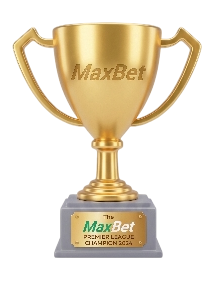
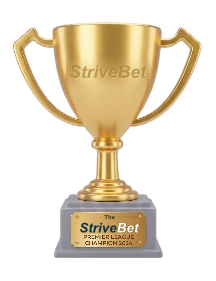
Rebrand the win trophy and leftover Sporty names to StriveBet
- winning-trophy.png: cup engraving and base plate now read StriveBet
  (original kept in _old-maxbet-assets/)
- "Sporty Loyalty" -> "Strive Loyalty" in the account menu and page title
- "Sporty Hero" mini game -> "Strive Hero" (display name only)

Changed region(s): [[0.3611, 0.7402, 0.6389, 0.8541], [0.3056, 0.2278, 0.7222, 0.2847]]

diff --git a/lib/constants.ts b/lib/constants.ts
@@ -23,7 +23,7 @@ export const PRIMARY_NAV: NavItem[] = [
 
 export const ACCOUNT_NAV: NavItem[] = [
   { label: "My Account Info", href: "/account", enabled: true },
-  { label: "Sporty Loyalty", href: "/account/loyalty", enabled: true },
+  { label: "Strive Loyalty", href: "/account/loyalty", enabled: true },
   { label: "Daily Streak", href: "/account/daily-streak", enabled: true },
   { label: "Deposit", href: "/account/deposit", enabled: true },
   { label: "Withdraw", href: "/account/withdraw", enabled: true },

diff --git a/data/mock/games.ts b/data/mock/games.ts
@@ -1,7 +1,7 @@
 import type { Game } from "@/types";
 
 export const games: Game[] = [
-  { id: "sporty-hero", name: "Sporty Hero", category: "Mini Games" },
+  { id: "sporty-hero", name: "Strive Hero", category: "Mini Games" },
   { id: "spin-da-bottle", name: "Spin da' Bottle", category: "Mini Games" },
   { id: "red-black", name: "Red Black", category: "Mini Games" },
   { id: "lucky-numbers", name: "Lucky Numbers", category: "Mini Games" },

diff --git a/components/account/account-sub-page-header.tsx b/components/account/account-sub-page-header.tsx
@@ -14,7 +14,7 @@ const TITLES: Record<string, string> = {
   "/account/notifications": "Notifications",
   "/account/settings": "Account Settings",
   "/account/security": "Safety & Security",
-  "/account/loyalty": "Sporty Loyalty",
+  "/account/loyalty": "Strive Loyalty",
   "/account/support": "Customer Support",
 };
 

diff --git a/app/account/loyalty/page.tsx b/app/account/loyalty/page.tsx
@@ -1,5 +1,5 @@
 import { ComingSoonPlaceholder } from "@/components/layout/coming-soon-placeholder";
 
 export default function LoyaltyPage() {
-  return <ComingSoonPlaceholder title="Sporty Loyalty" />;
+  return <ComingSoonPlaceholder title="Strive Loyalty" />;
 }

diff --git a/components/account/account-sidebar.tsx b/components/account/account-sidebar.tsx
@@ -22,7 +22,7 @@ import { UserCard } from "./user-card";
 
 const ICONS: Record<string, LucideIcon> = {
   "My Account Info": User,
-  "Sporty Loyalty": Trophy,
+  "Strive Loyalty": Trophy,
   "Daily Streak": Flame,
   Deposit: Wallet,
   Withdraw: Banknote,
